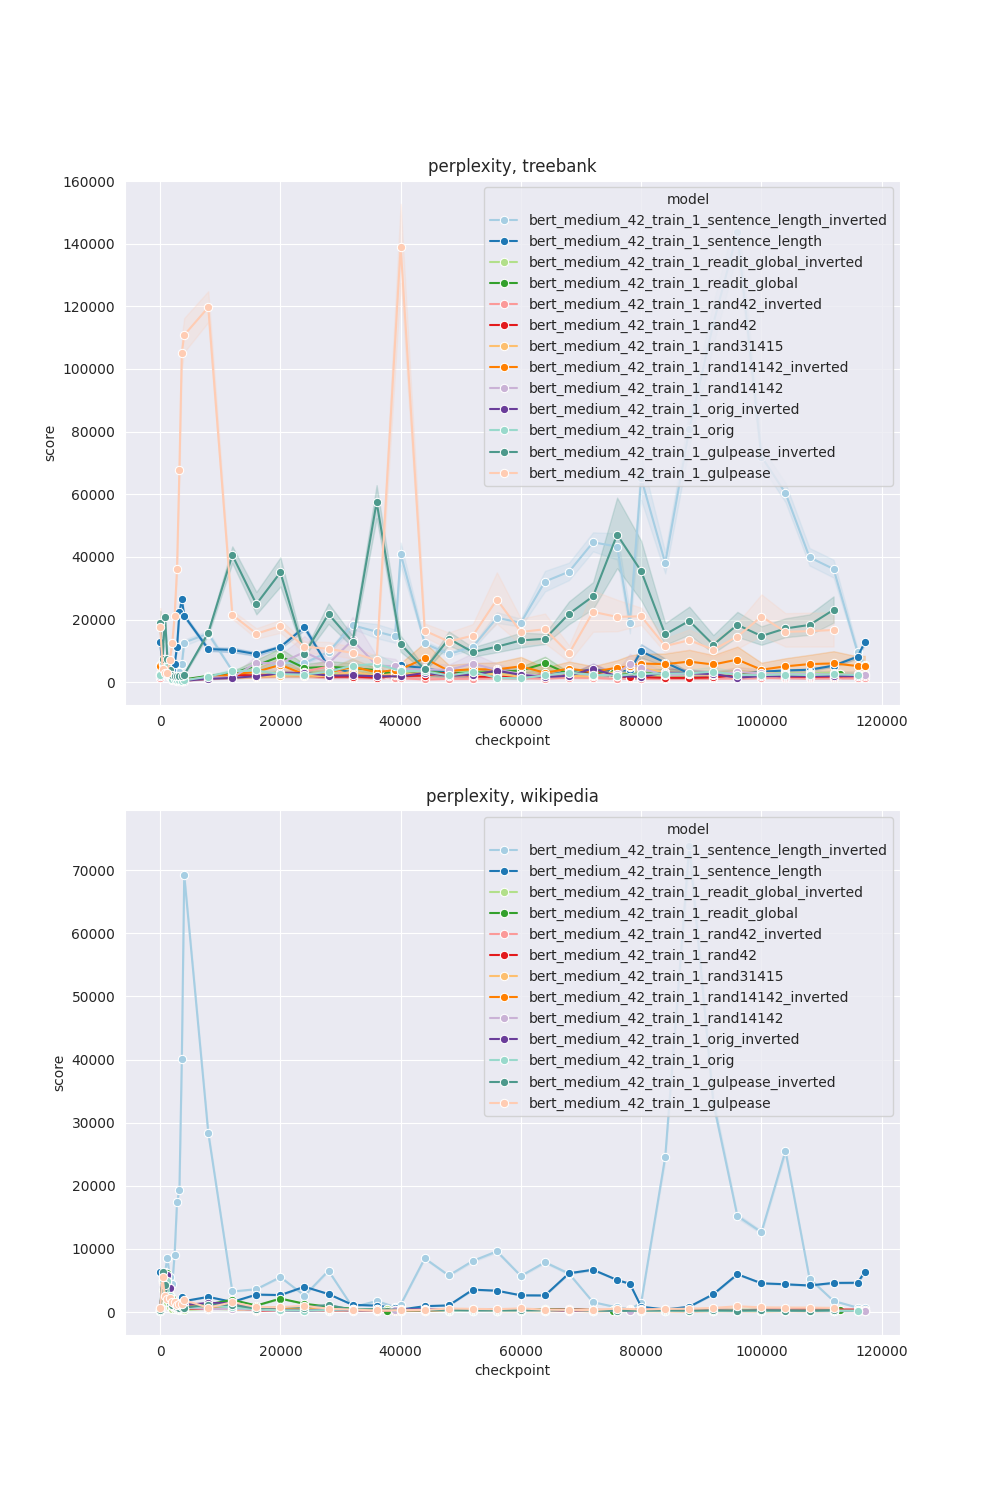
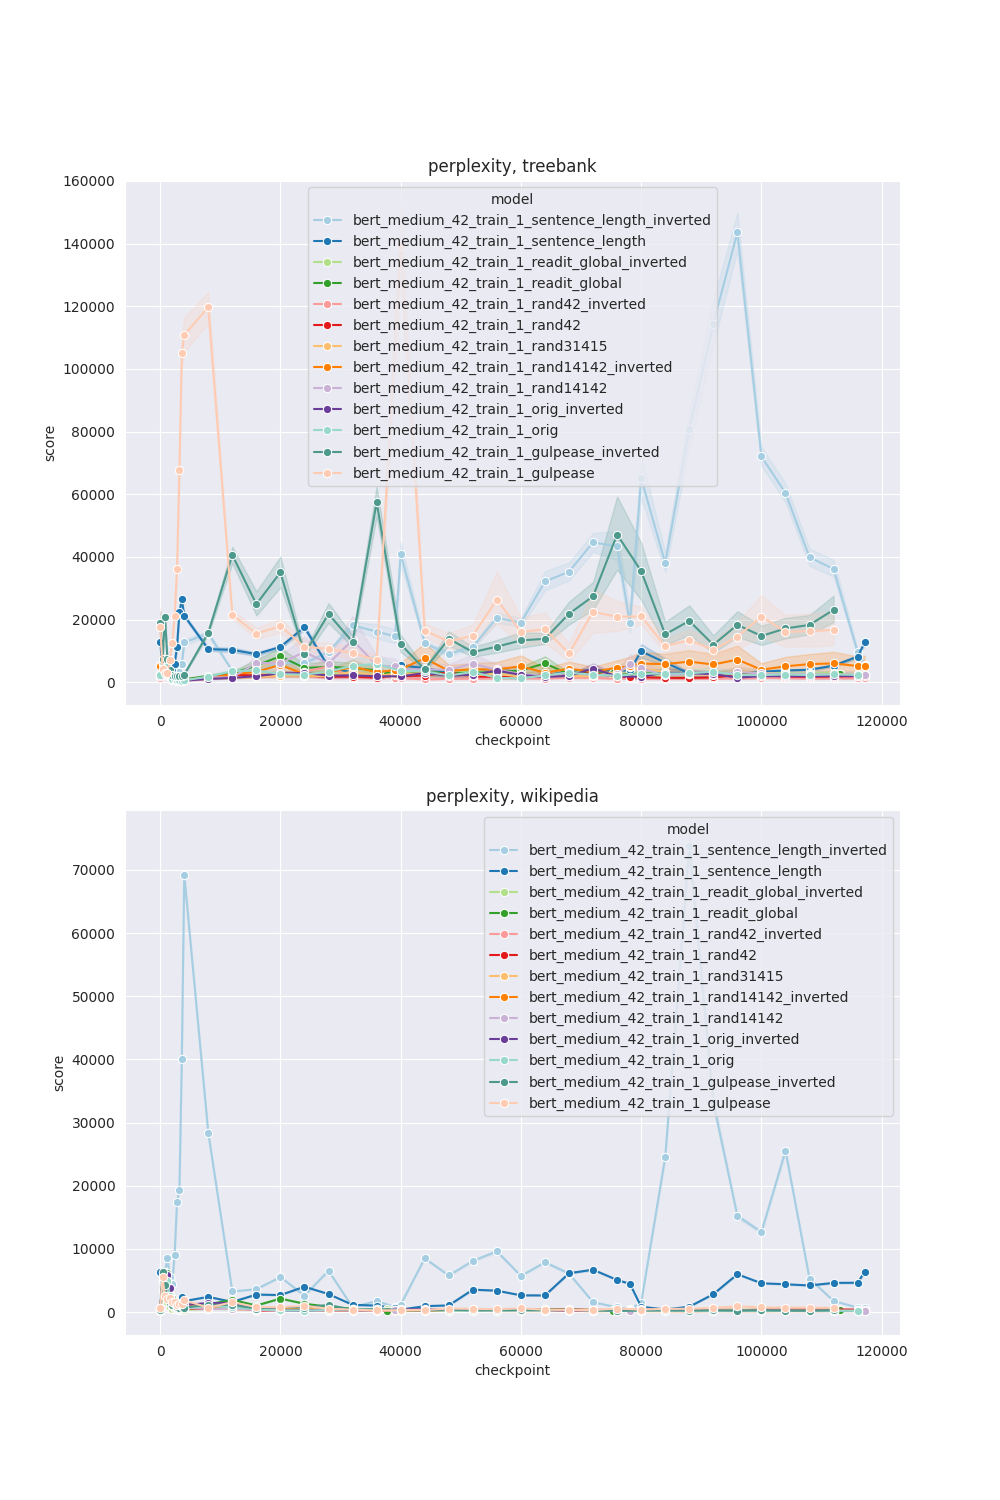
updated finetuning performances

Changed region(s): [[0.31, 0.1227, 0.899, 0.3373]]

diff --git a/scripts/eval/downstream_task_eval.py b/scripts/eval/downstream_task_eval.py
@@ -1,3 +1,4 @@
+from utils import get_seaborn_palette
 import matplotlib.pyplot as plt
 import seaborn as sns
 import pandas as pd
@@ -67,6 +68,7 @@ def get_task_results(downstream_task, model_size, average_metrics=False):
 
 def plot_results(res_df, task, output_path, max_checkpoint=None, metric_name=None):
     sorted_models = sorted(list(res_df['model'].unique()), reverse=True)
+    palette = get_seaborn_palette(len(sorted_models))
     if max_checkpoint is not None:
         res_df = res_df[res_df['checkpoint'] <= max_checkpoint]
 
@@ -80,7 +82,7 @@ def plot_results(res_df, task, output_path, max_checkpoint=None, metric_name=Non
         if max_checkpoint is None:
             plt.axvline(39063, color='white', linestyle='--')
             plt.axvline(39063*2, color='white', linestyle='--')
-        sns.lineplot(data=metric_df, x='checkpoint', hue='model', y='score', marker='o', hue_order=sorted_models, palette='Paired', ax=axes[idx])
+        sns.lineplot(data=metric_df, x='checkpoint', hue='model', y='score', marker='o', hue_order=sorted_models, palette=palette, ax=axes[idx])
         axes[idx].set_title(f'{task} - {metric_name if metric_name is not None else metric}')
     plt.savefig(f'{output_path}.png') 
     plt.show() 

diff --git a/README.md b/README.md
@@ -10,25 +10,27 @@ By Luc(i?)a
 - Curriculum Readit
 
 ## Things to do
+
+Model performances 🏋
  
 |                | Probing | PPL Wiki | PPL Treebank | Sentiment | Complexity | POS Tagging |
 |----------------|---------|----------|--------------|-----------|------------|-------------|
 | Orig           | X       | X        | X            | X         | X          | X           |
 | Orig_I         | X       | X        | X            | X         | X          | X           |
-| Rand42         | X       | X        | X            |           |            |             |
-| Rand42_I       | X       | X        | X            |           |            |             |
-| RandPI         | X       | X        | X            |           |            |             |
-| RandPI_I       | X       | X        | X            |           |            |             |
-| RandR2         | X       | X        | X            |           |            |             |
-| RandR2_I       | X       | X        | X            |           |            |             |
+| Rand42         | X       | X        | X            | X         | X          | X           |
+| Rand42_I       | X       | X        | X            | X         | X          | X           |
+| RandPI         | X       | X        | X            | X         | X          | X           |
+| RandPI_I       | X       | X        | X            | X         | X          | X           |
+| RandR2         | X       | X        | X            | X         | X          | X           |
+| RandR2_I       | X       | X        | X            | X         | X          | X           |
 | RandX          |         |          |              |           |            |             |
 | RandX_I        |         |          |              |           |            |             |
 | Gulpease       | X       | X        | X            | X         | X          | X           |
 | Gulpease_I     | X       | X        | X            | X         | X          | X           |
 | Sentence_len   | X       | X        | X            |           |            |             |
 | Sentence_len_I | X       | X        | X            |           |            |             |
-| Readit         | X       | X        | X            |           |            |             |
-| Readit_I       | X       | X        | X            |           |            |             |
+| Readit         | X       | X        | X            | X         | X          | X           |
+| Readit_I       | X       | X        | X            | X         | X          | X           |
 
 
 Representations'space 🚀
